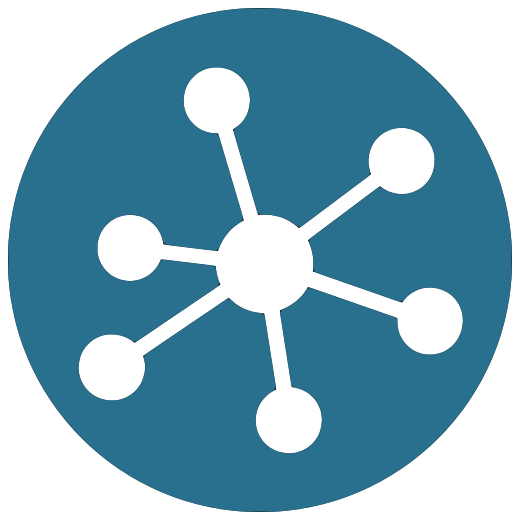
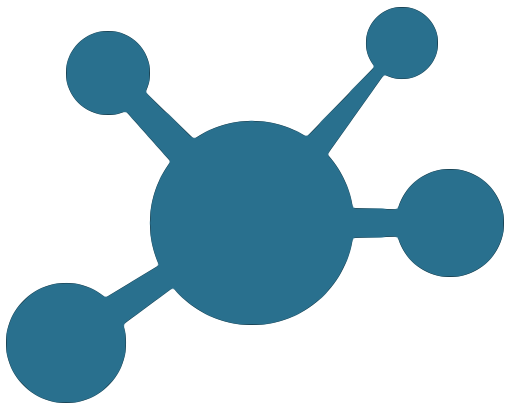
favicon2

diff --git a/index.html b/index.html
@@ -2,7 +2,7 @@
 <html>
 	<head>
 		<title>Cyprien</title>
-		<link rel="icon" href="images/netfavi2.png">
+		<link rel="icon" href="images/netfavi.png">
 		<meta charset="utf-8" />
 		<meta name="viewport" content="width=device-width, initial-scale=1" />
 		<!--[if lte IE 8]><script src="assets/js/html5shiv.js"></script><![endif]-->
